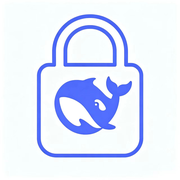
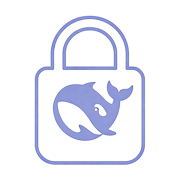
docs: 重做 README 版式
- 白底 logo 抠成透明（阈值去背，避免深色底上一圈灰框）
- 新增 banner.png：深色底 + 光晕 + 标题与两行副标题
- README 改成 banner 头图 + 居中 badge + 速览链接
- 长故事收进 <details>，表格统一对齐，去掉大段连续正文

Changed region(s): [[0.1667, 0.0556, 0.8056, 0.9167]]

diff --git a/scripts/make-assets.py b/scripts/make-assets.py
@@ -1,0 +1,119 @@
+"""把发来的白底 logo 做成可用的素材。
+
+三件事
+  1. 白底转透明（线稿去背，用 unmultiply 公式，边缘不发灰）
+  2. 裁掉多余留白，导出 logo.png 与 icon-180.png
+  3. 合成 banner.png（深色底 + 蓝光晕 + 标题 + 副标题），README 顶部用它
+
+跑法：python scripts/make-assets.py
+"""
+from pathlib import Path
+from PIL import Image, ImageDraw, ImageFilter, ImageFont
+
+ROOT = Path(__file__).resolve().parent.parent
+ASSETS = ROOT / "assets"
+SRC = ASSETS / "logo.jpg"
+
+FONT_BOLD = "C:/Windows/Fonts/segoeuib.ttf"
+FONT_CN = "C:/Windows/Fonts/msyh.ttc"
+
+
+def white_to_alpha(img: Image.Image) -> Image.Image:
+    """线稿去白底。
+
+    JPEG 的「白」不是纯白（常见 #fbfbfb / #f7f7f7），直接按 a = 255 - min(r,g,b) 算，
+    那点灰会变成 alpha≈4 的半透明，叠到深色 banner 上就是一圈肉眼可见的灰框。
+    所以先减掉一个阈值再把剩下的 alpha 拉伸回来。
+    """
+    FLOOR = 14
+    img = img.convert("RGBA")
+    px = img.load()
+    w, h = img.size
+    for y in range(h):
+        for x in range(w):
+            r, g, b, _ = px[x, y]
+            a = 255 - min(r, g, b)
+            if a <= FLOOR:
+                px[x, y] = (0, 0, 0, 0)
+                continue
+            a = int(min(255, (a - FLOOR) * 255 / (255 - FLOOR)))
+            nr = int(min(255, max(0, (r - (255 - a)) * 255 / max(a, 1))))
+            ng = int(min(255, max(0, (g - (255 - a)) * 255 / max(a, 1))))
+            nb = int(min(255, max(0, (b - (255 - a)) * 255 / max(a, 1))))
+            px[x, y] = (nr, ng, nb, a)
+    return img
+
+
+def trim(img: Image.Image) -> Image.Image:
+    box = img.getbbox()
+    return img.crop(box) if box else img
+
+
+def radial_glow(size, color, radius_ratio=0.75, peak=110):
+    """一张很便宜的径向光晕，用来给深色 banner 一点层次。"""
+    w, h = size
+    small = Image.new("L", (w // 4, h // 4), 0)
+    d = ImageDraw.Draw(small)
+    cx, cy = small.size[0] // 2, small.size[1] // 2
+    r = int(min(small.size) * radius_ratio)
+    for i in range(r, 0, -1):
+        t = i / r
+        v = int(peak * (1 - t) ** 2)
+        d.ellipse([cx - i, cy - i, cx + i, cy + i], fill=v)
+    small = small.filter(ImageFilter.GaussianBlur(12)).resize((w, h), Image.LANCZOS)
+    layer = Image.new("RGBA", (w, h), color + (0,))
+    layer.putalpha(small)
+    return layer
+
+
+def main():
+    raw = Image.open(SRC)
+    logo = trim(white_to_alpha(raw))
+
+    # 1) 正片叠底用的 logo（透明底）
+    target_h = 512
+    logo_hd = logo.resize((int(logo.width * target_h / logo.height), target_h), Image.LANCZOS)
+    logo_hd.save(ASSETS / "logo.png")
+
+    # 2) 市场卡片 180
+    icon = logo.copy()
+    icon.thumbnail((150, 150), Image.LANCZOS)
+    canvas = Image.new("RGBA", (180, 180), (0, 0, 0, 0))
+    canvas.paste(icon, ((180 - icon.width) // 2, (180 - icon.height) // 2), icon)
+    canvas.save(ASSETS / "icon-180.png")
+
+    # 3) banner
+    W, H = 1280, 380
+    bg = Image.new("RGBA", (W, H), (10, 13, 21, 255))
+    # 光晕放在偏右，别压在 logo 后面（压上去会显得 logo 那块发灰）
+    glow = radial_glow((W, H), (56, 108, 220), 0.55, 130).resize((W, H))
+    bg.alpha_composite(glow, (140, -40))
+    # 网格：直接写 RGB 值。RGBA 图里用 alpha 画网格会被 convert("RGB") 丢掉，变成纯白线。
+    grid = ImageDraw.Draw(bg)
+    for x in range(0, W, 40):
+        grid.line([(x, 0), (x, H)], fill=(17, 21, 29, 255))
+    for y in range(0, H, 40):
+        grid.line([(0, y), (W, y)], fill=(17, 21, 29, 255))
+
+    mark = logo.resize((int(logo.width * 232 / logo.height), 232), Image.LANCZOS)
+    bg.alpha_composite(mark, (88, (H - mark.height) // 2))
+
+    draw = ImageDraw.Draw(bg)
+    title_font = ImageFont.truetype(FONT_BOLD, 66)
+    sub_font = ImageFont.truetype(FONT_CN, 25)
+    tag_font = ImageFont.truetype(FONT_CN, 19)
+
+    x = 88 + mark.width + 54
+    draw.text((x, 92), "DSH Chatlock", font=title_font, fill=(246, 248, 252, 255))
+    draw.line([(x + 4, 186), (x + 250, 186)], fill=(76, 141, 255, 255), width=3)
+    draw.text((x + 4, 206), "给 DeepSeek Harness 的会话上锁，把目录变成保险箱", font=sub_font, fill=(176, 184, 198, 255))
+    draw.text((x + 4, 250), "scrypt 口令 · AES-256-GCM · 锁定后磁盘上只有密文", font=tag_font, fill=(120, 156, 220, 255))
+
+    bg.convert("RGB").save(ASSETS / "banner.png", optimize=True)
+    print("logo.png", logo_hd.size)
+    print("icon-180.png", canvas.size)
+    print("banner.png", (W, H))
+
+
+if __name__ == "__main__":
+    main()
